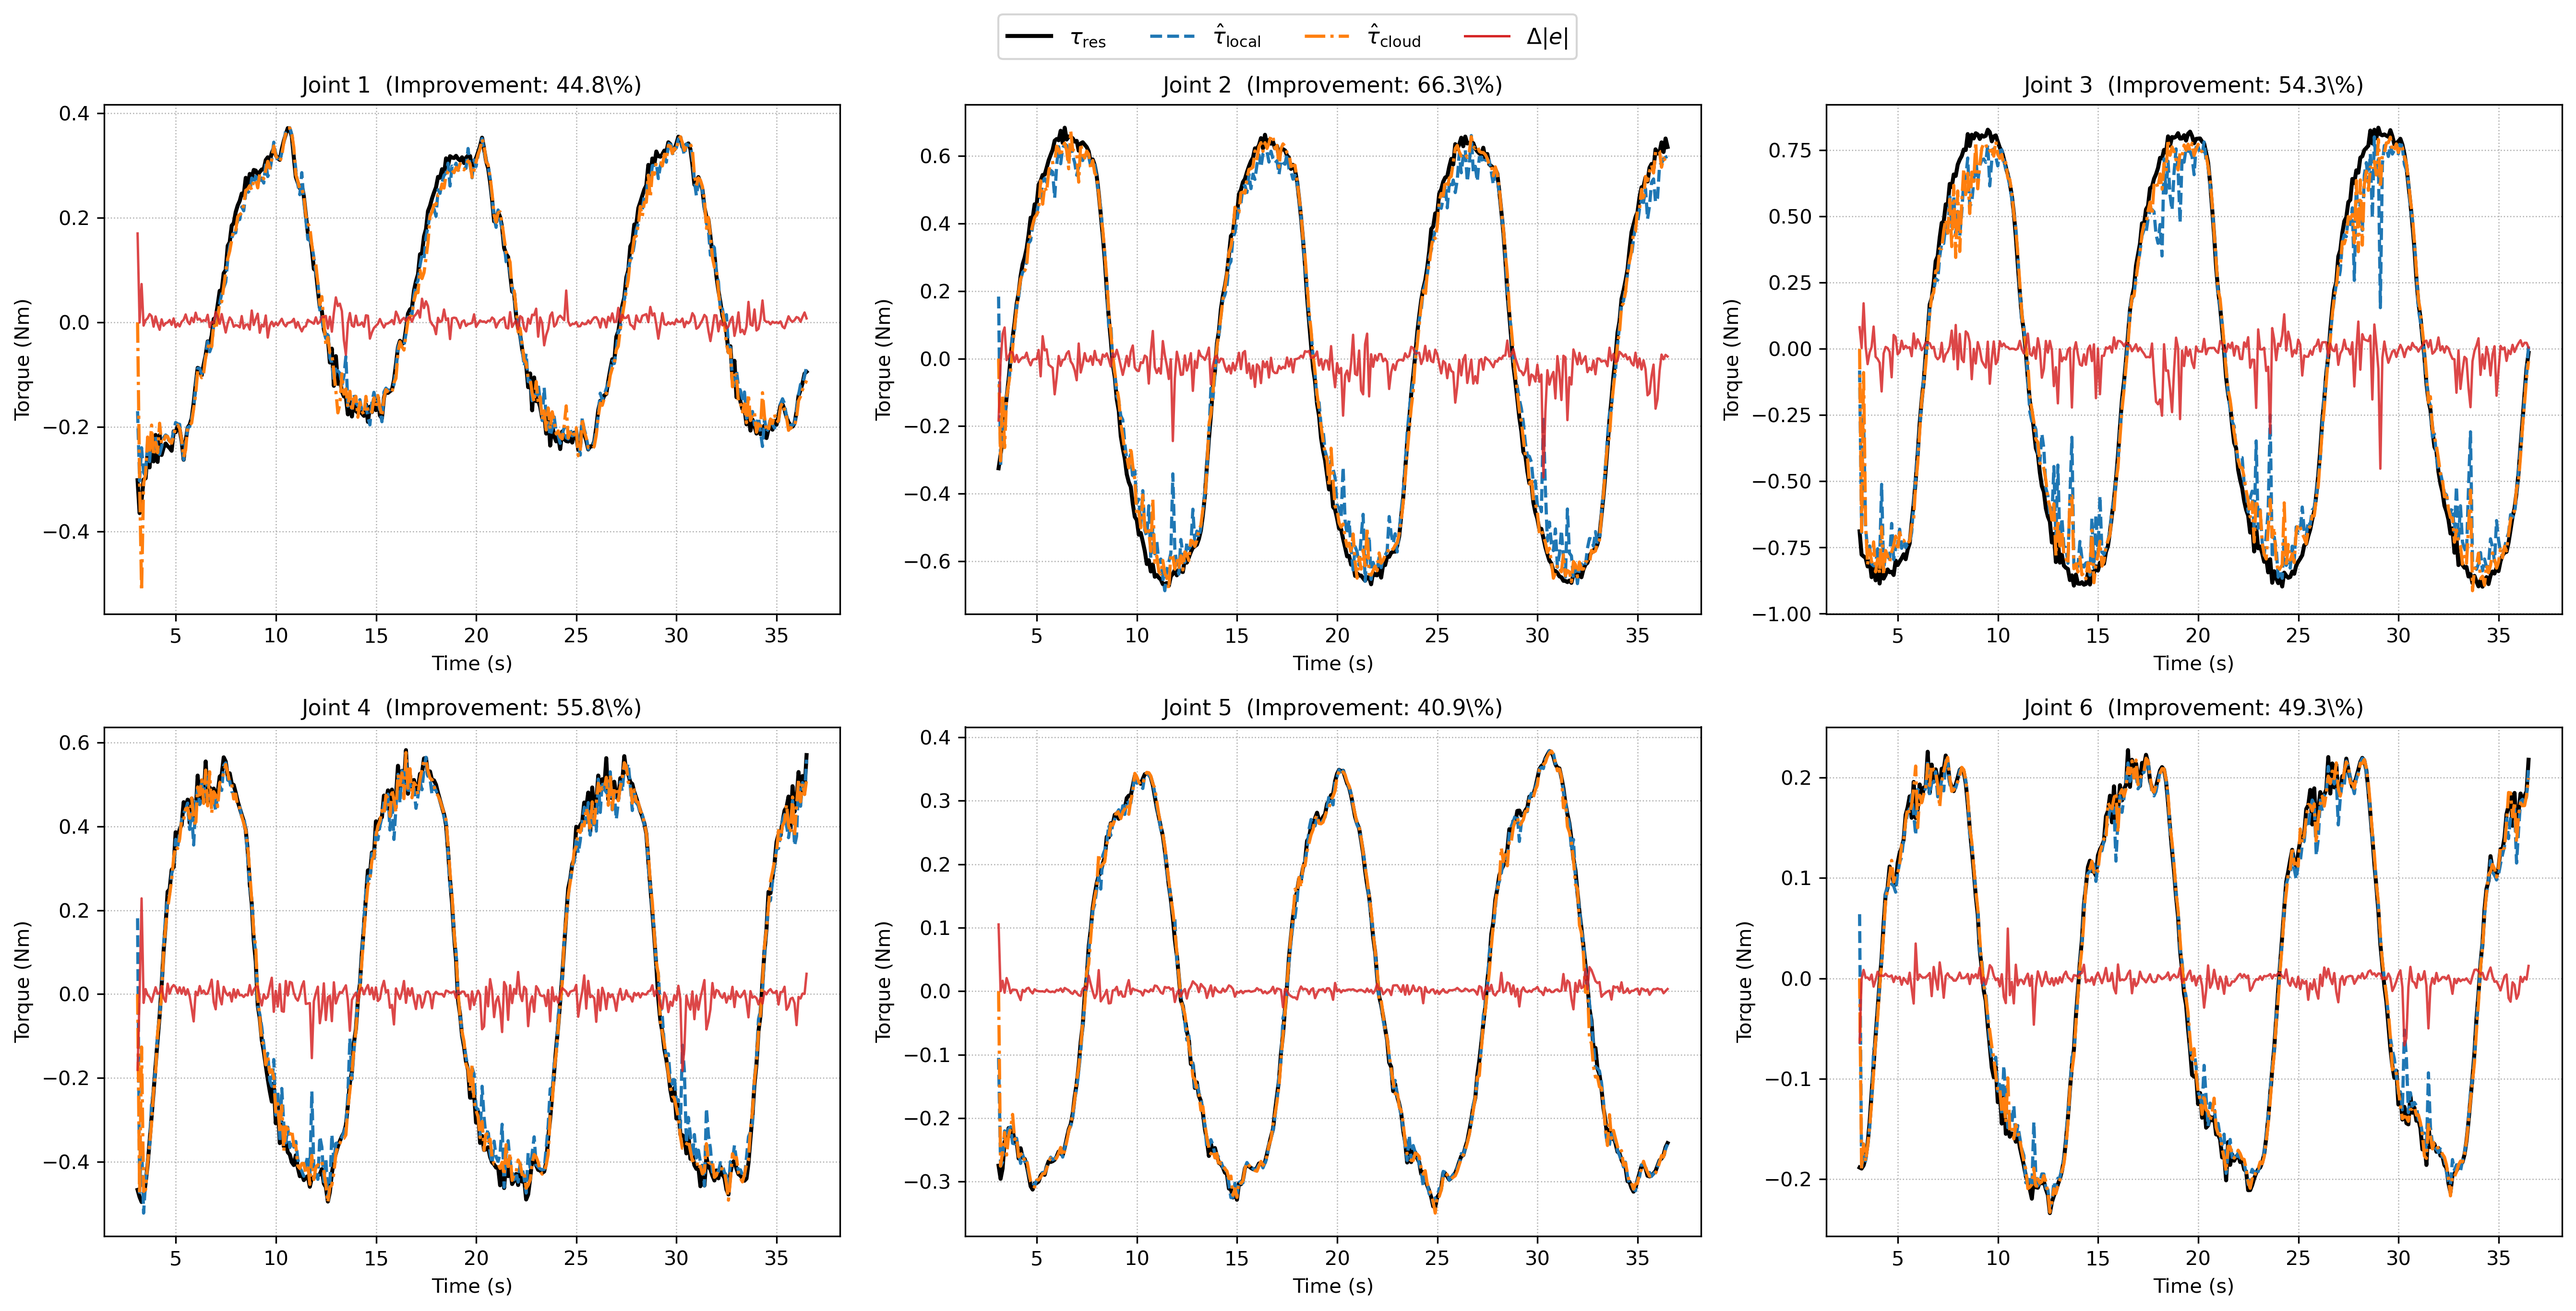
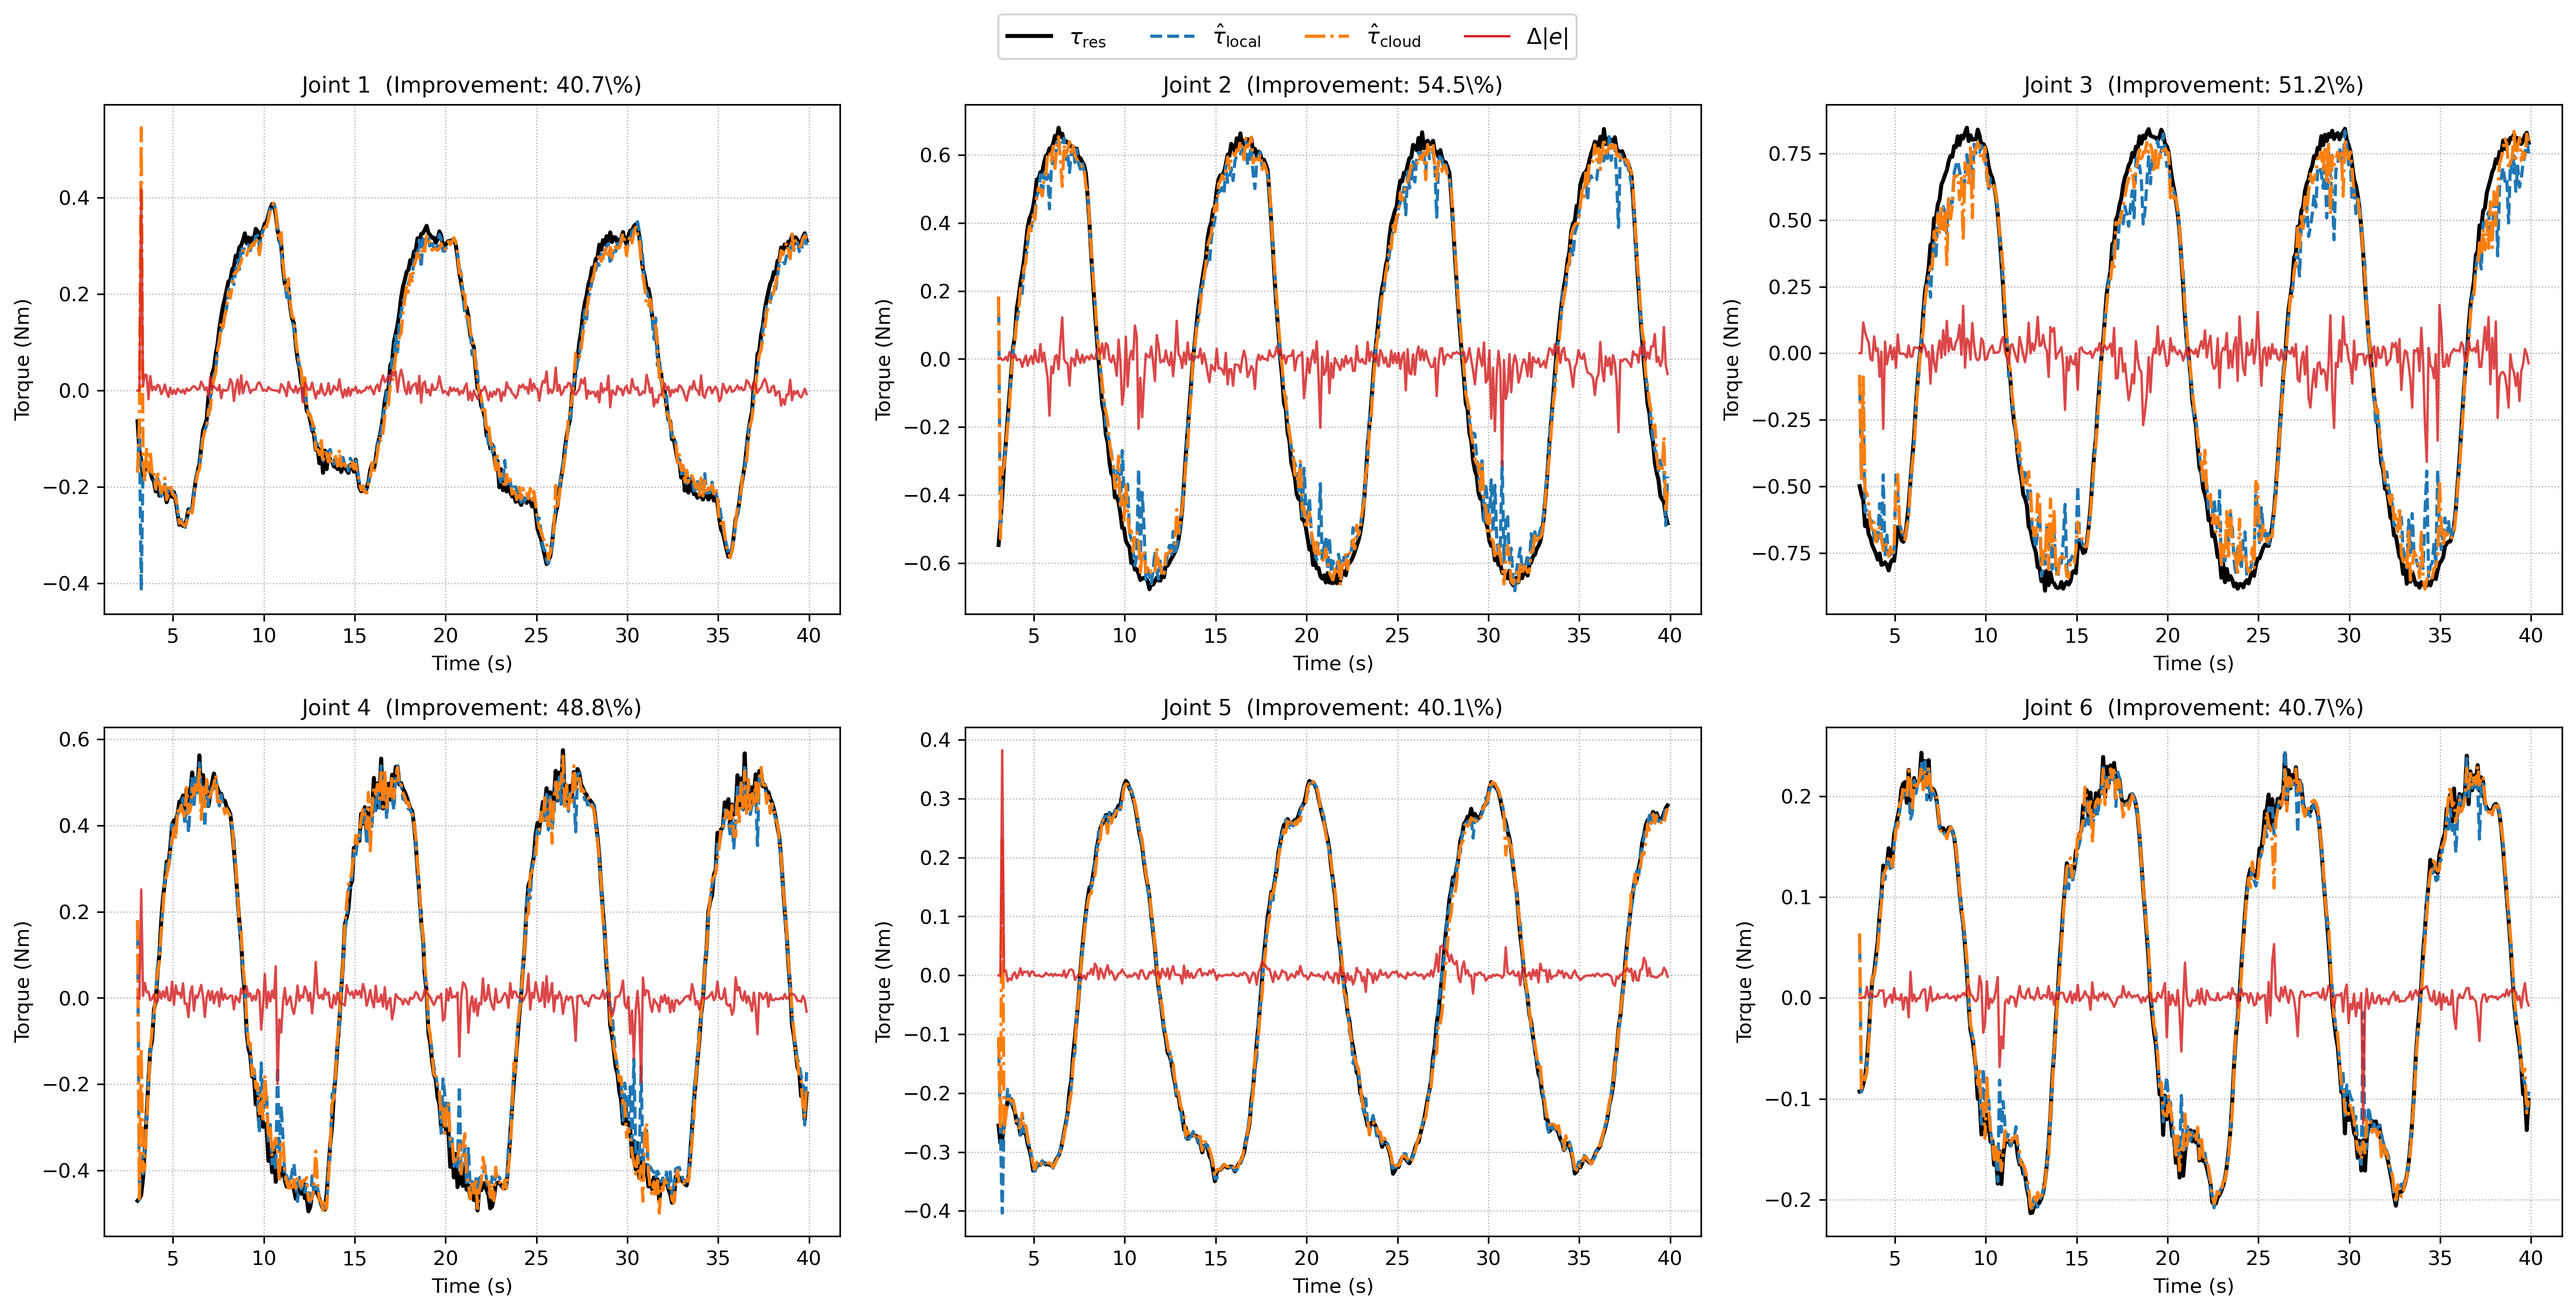
able to compare local and cloud with delay, but future state based prediction is not accurate but noisy

diff --git a/new_structure/py_controllers/py_controllers/cartesian_impedance.py b/new_structure/py_controllers/py_controllers/cartesian_impedance.py
@@ -177,7 +177,8 @@ class CartesianImpedanceController(Node):
         self.gp_counter = 0
         self.last_q = np.zeros(7)
         self.last_dq = np.zeros(7)
-        self.last_ddqq = np.zeros(7)
+        self.last_ddq = np.zeros(7)
+        self.last_residual = np.zeros(7)
 
         self.y_hat_filtered = np.zeros(7)
         self.y_hat_alpha = 0.05   # 越小越平滑，0.01~0.1 合理      
@@ -653,99 +654,98 @@ class CartesianImpedanceController(Node):
                 # ---------------------------------------------------------
                 # B) local：只有 tick 更新，否则 hold
                 # ---------------------------------------------------------
-                if tick:
-                    self.tau_memory = self.tau_residual_filtered
+                # if tick:
+                #     self.tau_memory = self.tau_residual_filtered
 
-                    x_query = self._build_gp_feature(self.q, dq, self.ddq_des_joint)
+                #     x_query = self._build_gp_feature(self.q, dq, self.ddq_des_joint)
 
-                    # 1) 当前 local GP
-                    y_hat_local_now, var_local_now = self._gp_predict_and_update(
-                        self.q, dq, self.ddq_des_joint,
-                        self.tau_residual_filtered,
-                        self.gp_models_small,
-                        update=True
-                    )
+                #     # 1) 当前 local GP
+                #     y_hat_local_now, var_local_now = self._gp_predict_and_update(
+                #         self.q, dq, self.ddq_des_joint,
+                #         self.tau_residual_filtered,
+                #         self.gp_models_small,
+                #         update=True
+                #     )
 
-                    # 2) 历史最近邻记忆项
-                    y_hat_hist, var_hist, alpha_hist = self._query_local_gp_history(x_query)
-                    self.y_hat_mem = y_hat_hist
+                #     # 2) 历史最近邻记忆项
+                #     y_hat_hist, var_hist, alpha_hist = self._query_local_gp_history(x_query)
+                #     self.y_hat_mem = y_hat_hist
 
-                    # 3) 融合
-                    # self.y_hat_local = (1.0 - alpha_hist) * y_hat_local_now + alpha_hist * y_hat_hist
-                    self.y_hat_local = y_hat_local_now
-                    self.var_local   = (1.0 - alpha_hist) * var_local_now   + alpha_hist * var_hist
+                #     # 3) 融合
+                #     # self.y_hat_local = (1.0 - alpha_hist) * y_hat_local_now + alpha_hist * y_hat_hist
+                #     self.y_hat_local = y_hat_local_now
+                #     self.var_local   = (1.0 - alpha_hist) * var_local_now   + alpha_hist * var_hist
 
-                    # 4) 当前结果写入历史池
-                    self._append_local_gp_history(x_query, y_hat_local_now, var_local_now)
+                #     # 4) 当前结果写入历史池
+                #     self._append_local_gp_history(x_query, y_hat_local_now, var_local_now)
 
-                    # 5) rollout 保持你原来的逻辑
-                    M = self.gp_stride
-                    dt_step = 0.02
-                    q_i  = self.q.copy()
-                    dq_i = dq.copy()
-                    ddq_i = self.ddq_des_joint.copy()
-                    tau_recursive = self.tau_residual_filtered
+                #     # 5) rollout 保持你原来的逻辑
+                #     M = self.gp_stride
+                #     dt_step = 0.02
+                #     q_i  = self.q.copy()
+                #     dq_i = dq.copy()
+                #     ddq_i = self.ddq_des_joint.copy()
+                #     tau_recursive = self.tau_residual_filtered
 
-                    y_i, v_i = self._gp_predict_and_update(
-                        q_i, dq_i, ddq_i,
-                        tau_recursive,
-                        self.gp_models_big,
-                        update=True
-                    )
-                    # self.y_hat_cloud = y_i
-                    self._append_local_gp_history(x_query, y_i, v_i)
-                    for i in range(M - 1):
-                        q_i  = q_i  + dq_i * dt_step + 0.5 * ddq_i * (dt_step**2)
-                        dq_i = dq_i + ddq_i * dt_step
-                        y_i, v_i = self._gp_predict_and_update(
-                            q_i, dq_i, ddq_i,
-                            tau_recursive,
-                            self.gp_models_big,
-                            update=True
-                        )
-                        
-                        tau_recursive = 1.0 * y_i + 0.0 * tau_recursive
-
-                    self.cloud_queue.append(y_i.copy())
-                    self.cloud_var_queue.append(v_i.copy())
-                else:
-                    self.var_local = np.minimum(self.var_local * 1.02, 1e6)
-                # y_hat_local, var_local = self._gp_predict_and_update(
-                #     self.q, dq, self.ddq_des_joint,
-                #     self.tau_residual_filtered,
-                #     self.gp_models_small,
-                #     update=True
-                # )
-                # self.y_hat_local = y_hat_local
-                # self.var_local = var_local
-
-                # q_i  = self.last_q.copy()
-                # dq_i = self.last_dq.copy()
-                # ddq_i = self.last_ddq.copy() 
-
-                # delay = 0.02
-                # q_i  = q_i  + dq_i * delay + 0.5 * ddq_i * (delay**2)
-                # dq_i = dq_i + ddq_i * delay
-
-                # y_hat_cloud, var_cloud = self._gp_predict_and_update(
-                #     q_i, dq_i, self.ddq_des_joint,
-                #     self.tau_residual_filtered,
-                #     self.gp_models_big,
-                #     update=False
-                # )
-                # if self.last_q:
-                #     _, _= self._gp_predict_and_update(
-                #         self.last_q, self.last_dq, self.last_ddq,
-                #         self.last_residual,
+                #     y_i, v_i = self._gp_predict_and_update(
+                #         q_i, dq_i, ddq_i,
+                #         tau_recursive,
                 #         self.gp_models_big,
                 #         update=True
                 #     )
+                #     # self.y_hat_cloud = y_i
+                #     self._append_local_gp_history(x_query, y_i, v_i)
+                #     for i in range(M - 1):
+                #         q_i  = q_i  + dq_i * dt_step + 0.5 * ddq_i * (dt_step**2)
+                #         dq_i = dq_i + ddq_i * dt_step
+                #         y_i, v_i = self._gp_predict_and_update(
+                #             q_i, dq_i, ddq_i,
+                #             tau_recursive,
+                #             self.gp_models_big,
+                #             update=True
+                #         )
+                        
+                #         tau_recursive = 1.0 * y_i + 0.0 * tau_recursive
+
+                #     self.cloud_queue.append(y_i.copy())
+                #     self.cloud_var_queue.append(v_i.copy())
+                # else:
+                #     self.var_local = np.minimum(self.var_local * 1.02, 1e6)
+                y_hat_local, var_local = self._gp_predict_and_update(
+                    self.q, dq, self.ddq_des_joint,
+                    self.tau_residual_filtered,
+                    self.gp_models_small,
+                    update=True
+                )
+                self.y_hat_local = y_hat_local
+                self.var_local = var_local
+
+                q_i  = self.last_q.copy()
+                dq_i = self.last_dq.copy()
+                ddq_i = self.last_ddq.copy() 
+
+                delay = 0.002
+                q_i  = q_i  + dq_i * delay + 0.5 * ddq_i * (delay**2)
+                dq_i = dq_i + ddq_i * delay
+
+                y_hat_cloud, var_cloud = self._gp_predict_and_update(
+                    q_i, dq_i, self.ddq_des_joint,
+                    self.tau_residual_filtered,
+                    self.gp_models_big,
+                    update=False
+                )
+                _, _= self._gp_predict_and_update(
+                    self.last_q, self.last_dq, self.last_ddq,
+                    self.last_residual,
+                    self.gp_models_big,
+                    update=True
+                )
                 
-                # self.last_q = self.q.copy()
-                # self.last_dq = self.dq.copy()
-                # self.last_ddq = self.ddq_des_joint.copy()
-                # self.last_residual = self.tau_residual_filtered
-                # self.y_hat_cloud = y_hat_cloud
+                self.last_q = self.q
+                self.last_dq = self.dq
+                self.last_ddq = self.ddq_des_joint
+                self.last_residual = self.tau_residual_filtered
+                self.y_hat_cloud = y_hat_cloud
 
                 
                 # ---------------------------------------------------------
@@ -1063,14 +1063,14 @@ class CartesianImpedanceController(Node):
         per_joint_cfg = {
             "default": dict(
                 max_data_per_expert=25,
-                nearest_k=4,
+                nearest_k=2,
                 max_experts=25,
                 timescale=0.03,
             ),
             # 举例：如果你想让 6 号关节忘得快一点、专家少一点，可以单独改：
             6: dict(
                 max_data_per_expert=25,
-                nearest_k=4,
+                nearest_k=2,
                 max_experts=25,
                 timescale=0.05,
             ),
